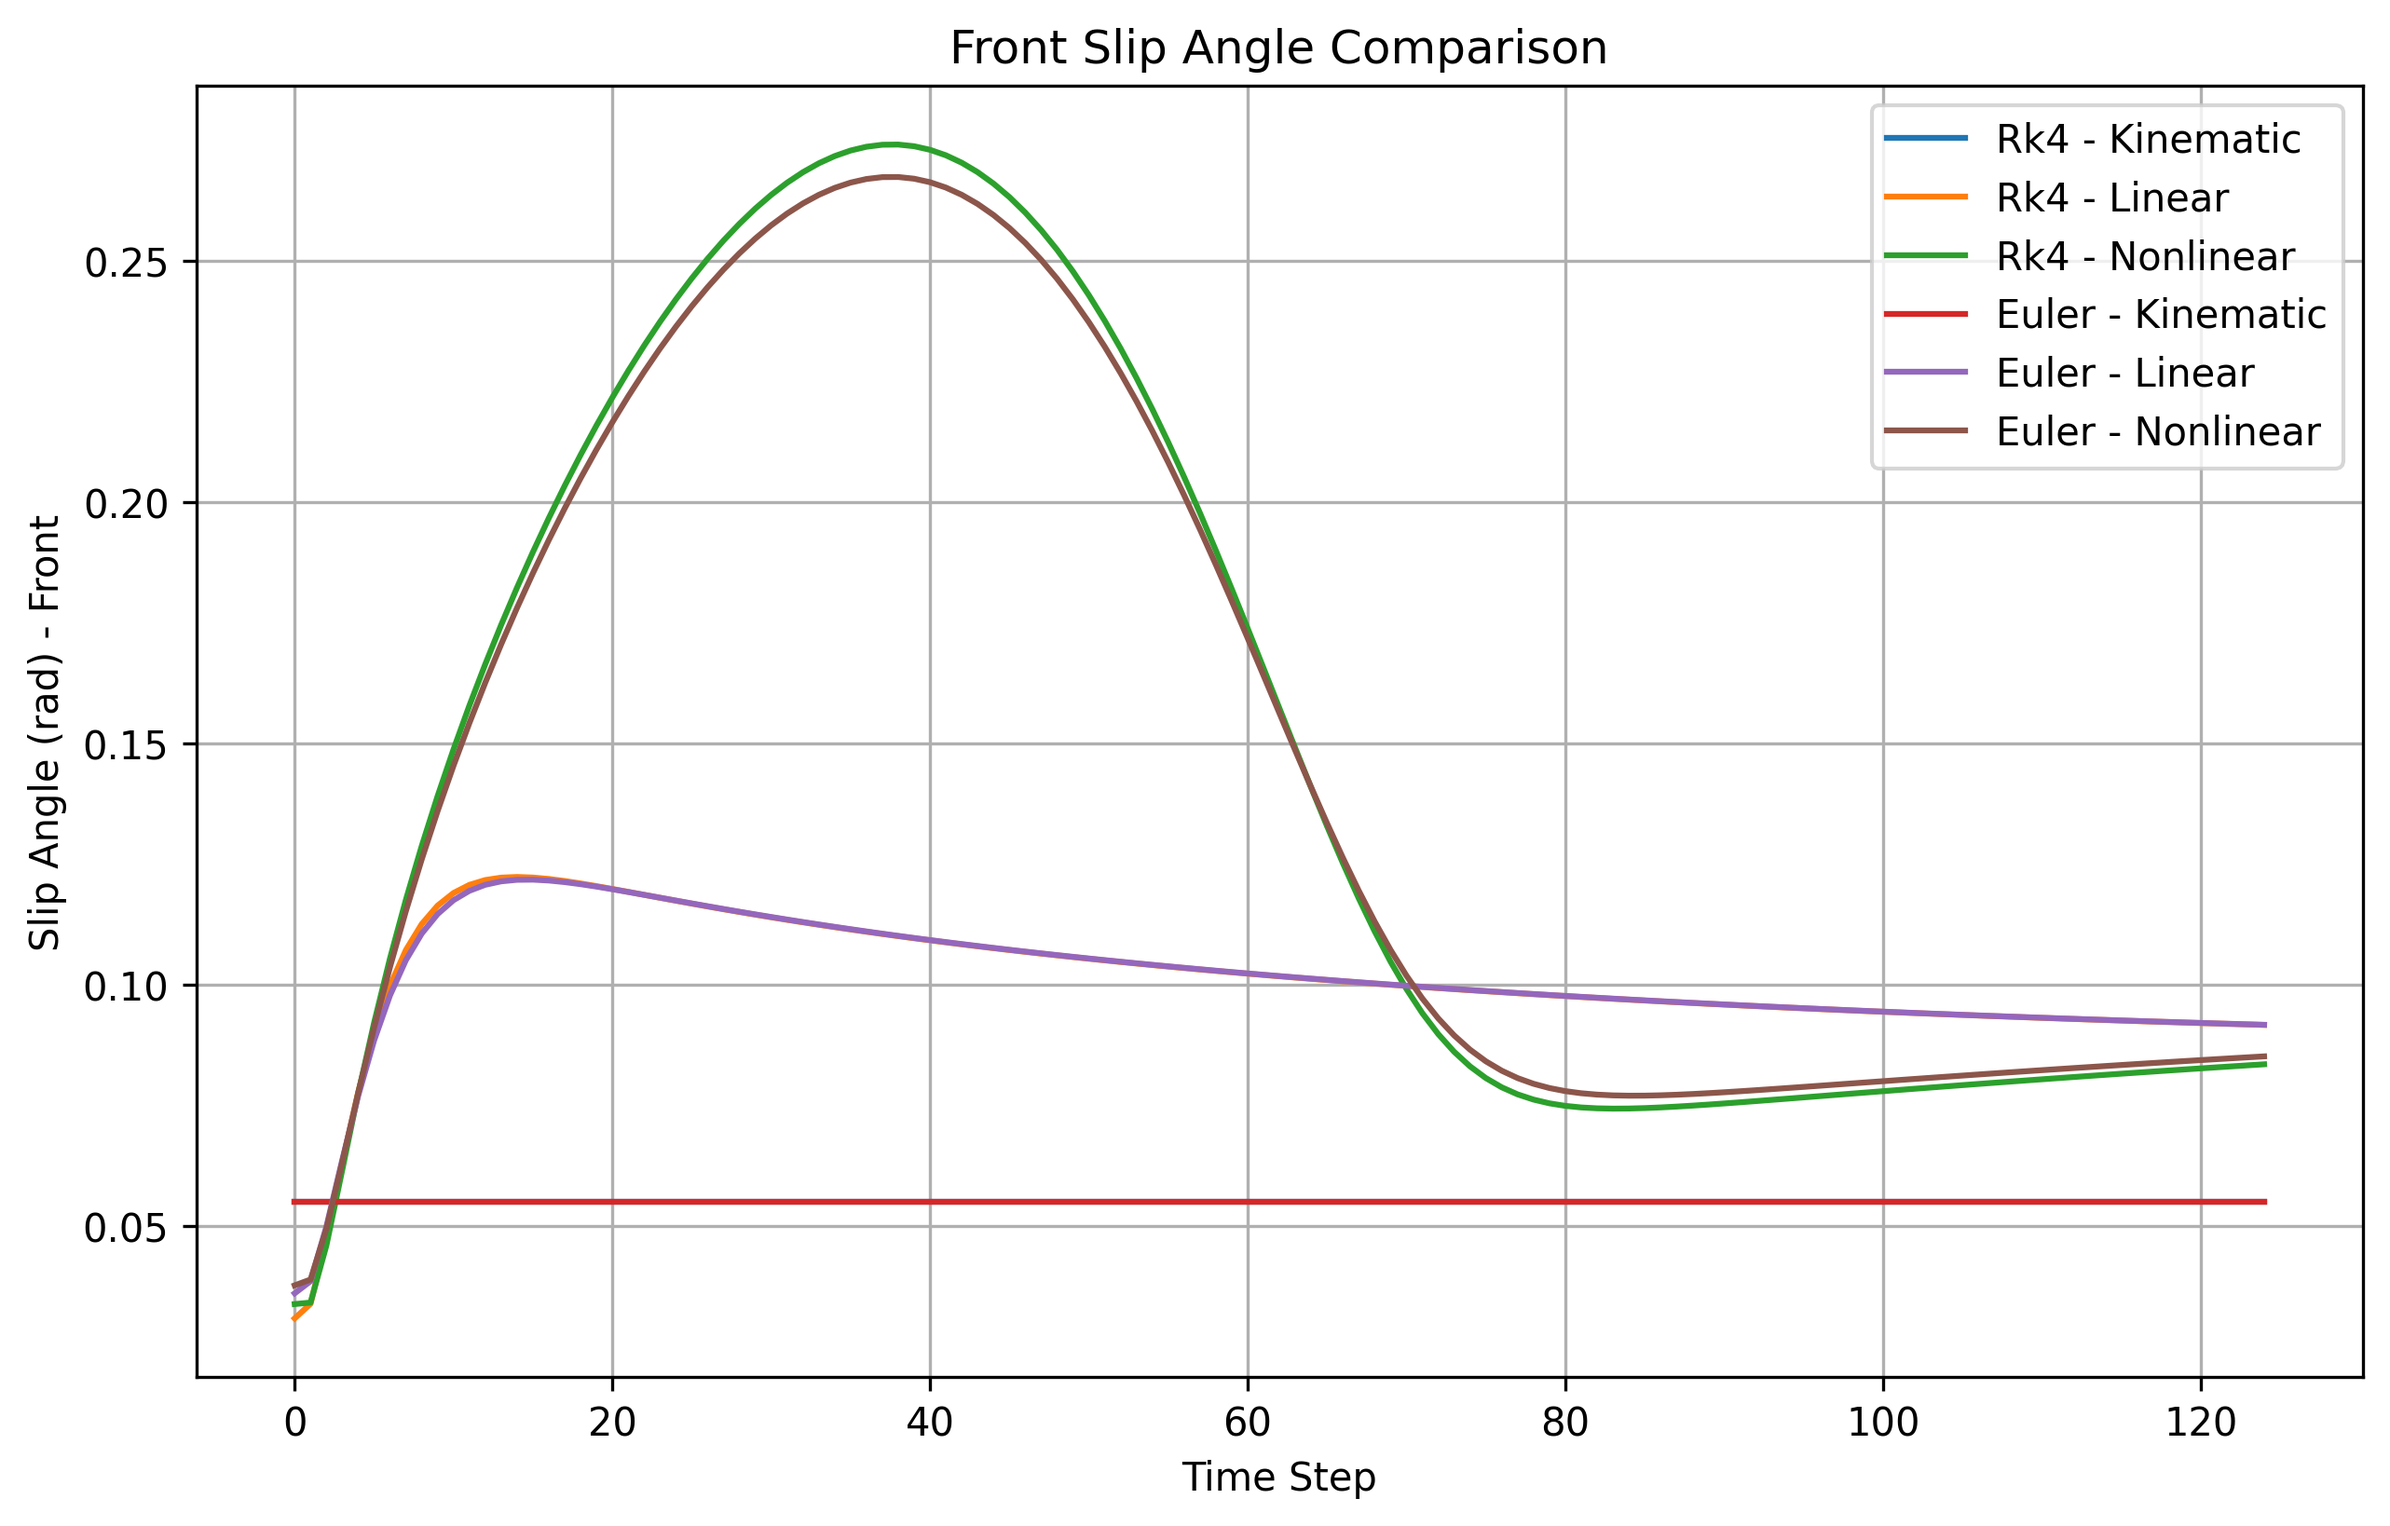
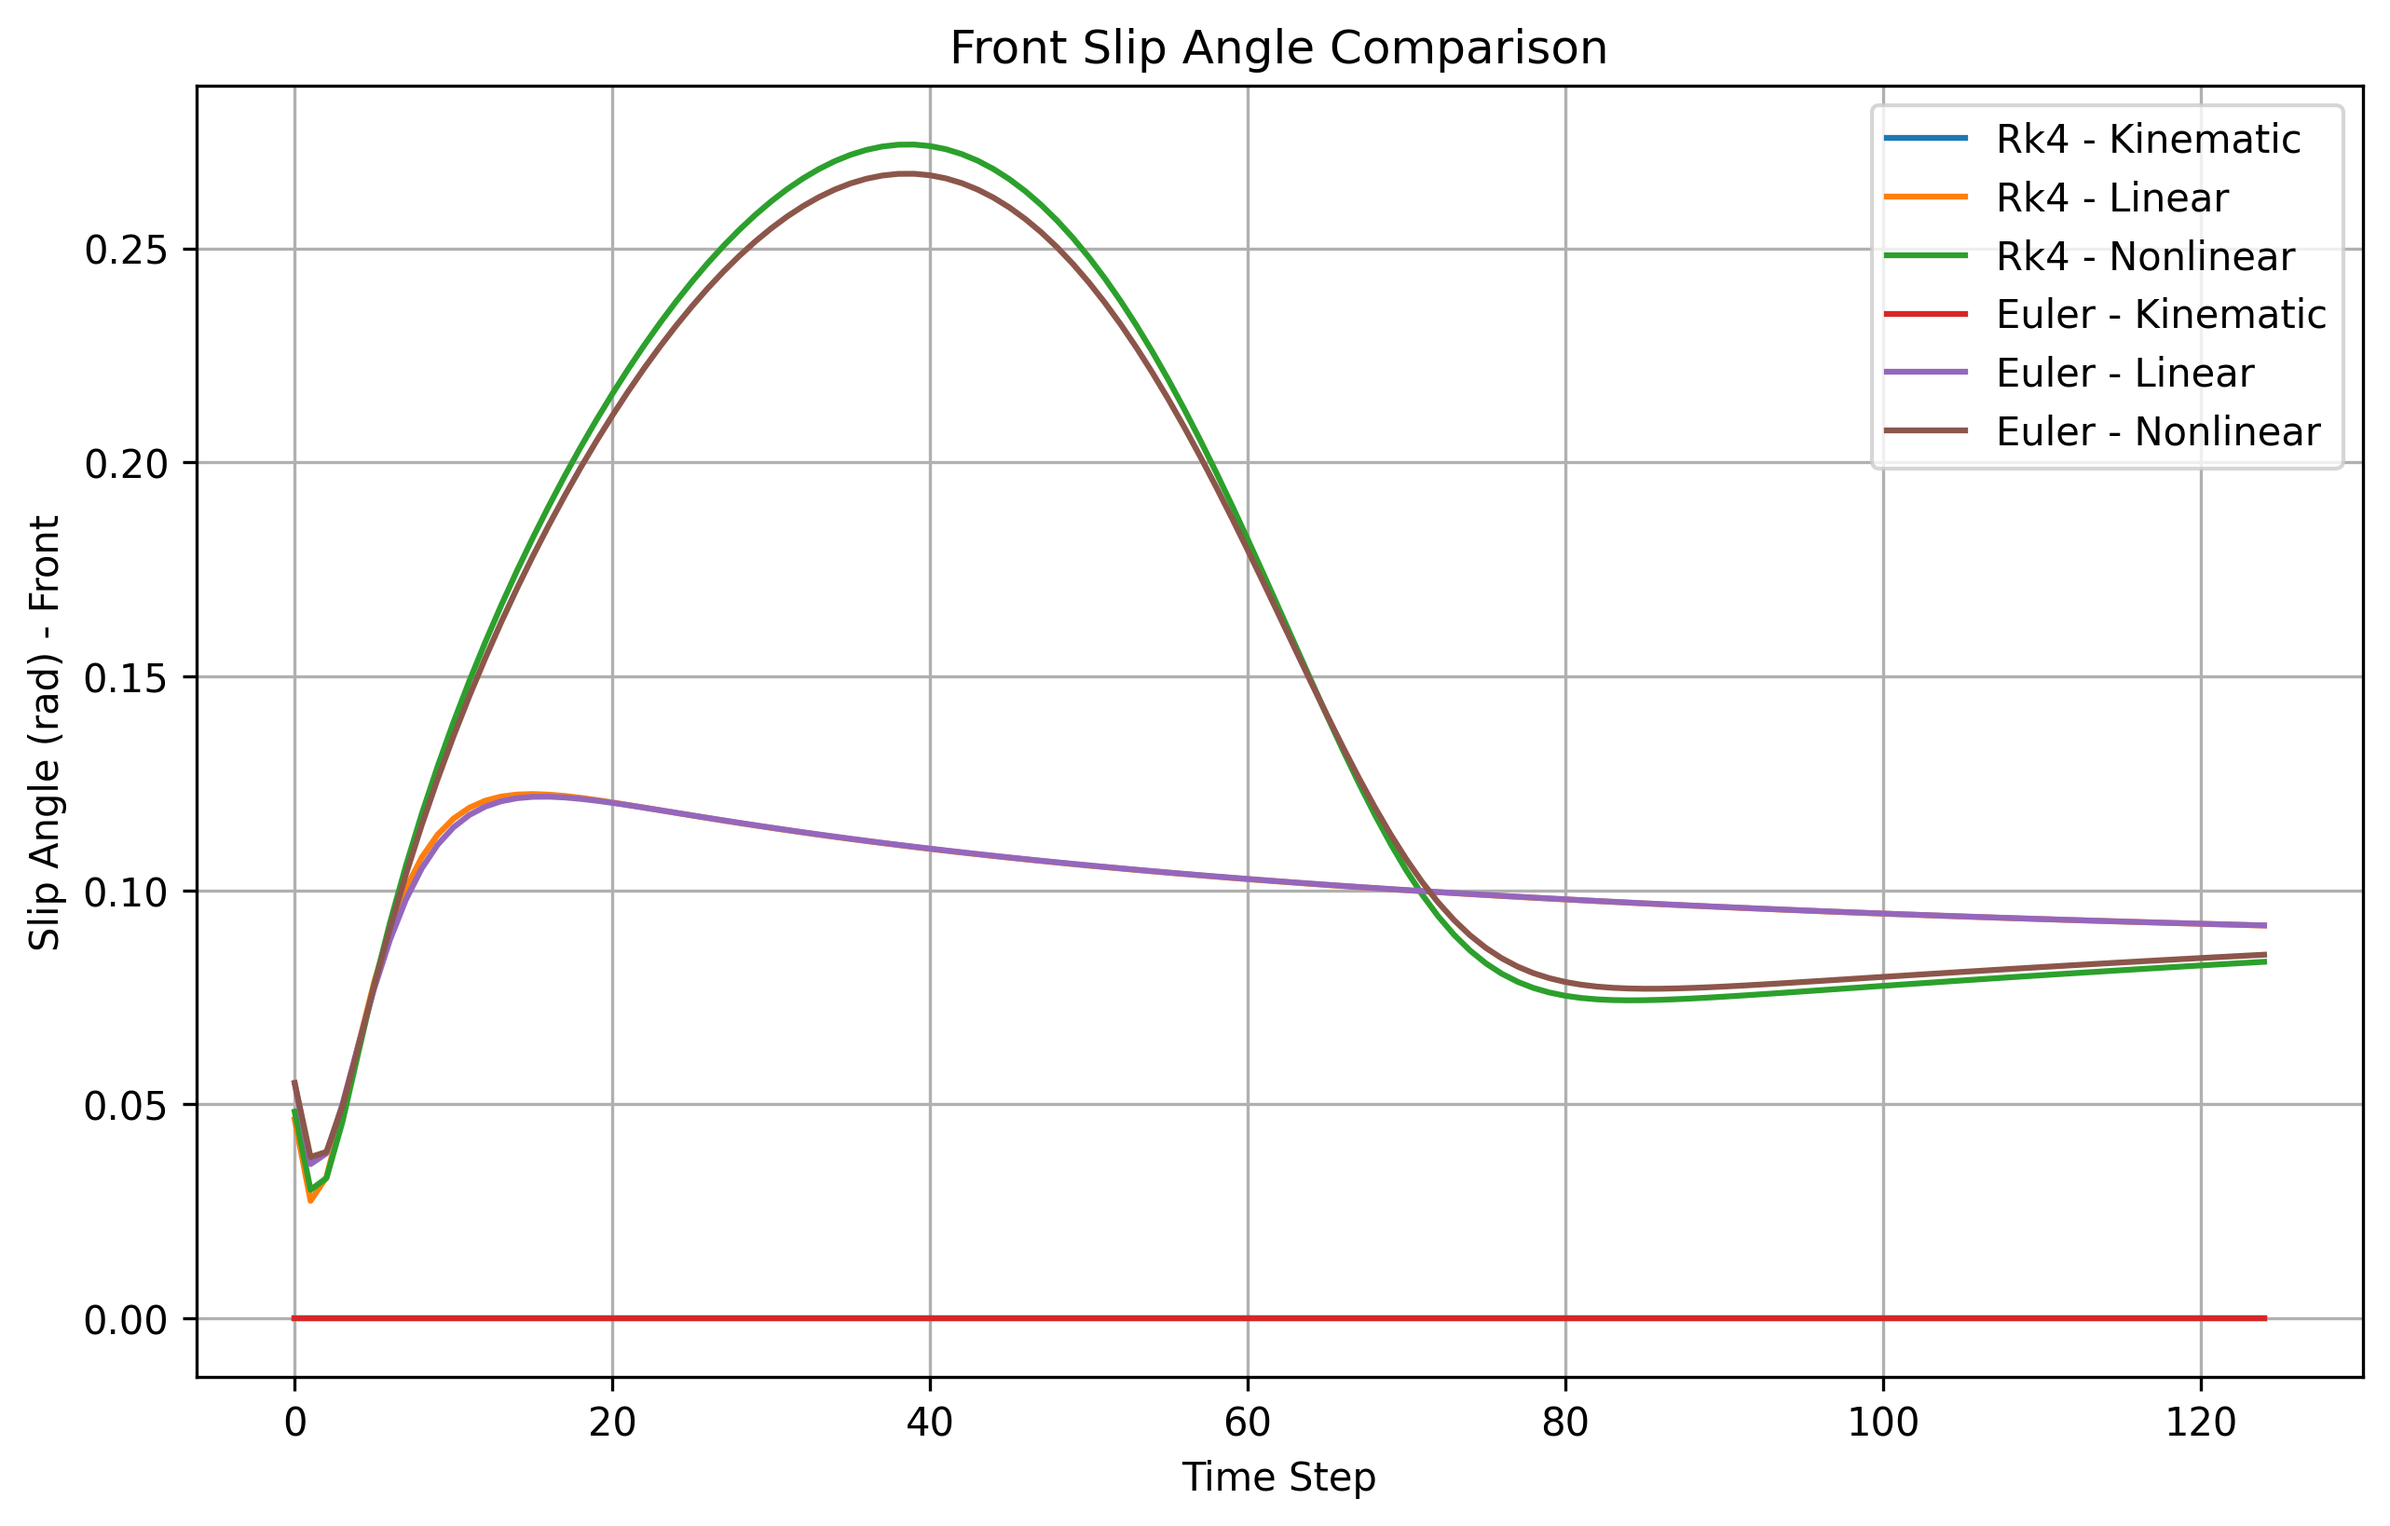
refactored code, generated some images again

diff --git a/assignment_04/main.py b/assignment_04/main.py
@@ -28,29 +28,18 @@ def plot_trajectory(x_vals, y_vals, labels):
     plt.axis("equal")
     plt.savefig("./img/Trajectory.png", dpi=300, bbox_inches='tight')
 
-# Please note: lateral_dynamic is a three-dimensions array: simulation -> data array -> specific unit data 
-def plot_lateral_forces(lateral_dynamic, labels):
+# This function plots the Fy vs alpha graphs
+def plot_lateral_force(Fy, alpha, labels, force_type):
     """ Plot lateral force as a function of slip angle """
     plt.figure(figsize=(10, 6))
-    for i, simulation in enumerate(lateral_dynamic):
-        plt.plot(simulation[1], simulation[0], label=labels[i])
-    plt.title("Front lateral force as function of slip angle")
-    plt.xlabel("Front lateral slip angle (rad)")
-    plt.ylabel("Front lateral force (N)")
+    for i, simulation in enumerate(Fy):
+        plt.plot(alpha[i], Fy[i], label=labels[i])
+    plt.title(force_type + " lateral force as function of slip angle")
+    plt.xlabel(force_type + " lateral slip angle (rad)")
+    plt.ylabel(force_type + " lateral force (N)")
     plt.legend()
     plt.grid(True)
-    plt.savefig("./img/Front Lateral Force vs Slip Angle.png", dpi=300, bbox_inches='tight')
-
-    plt.figure(figsize=(10, 6))
-    for i, simulation in enumerate(lateral_dynamic):
-        plt.plot(simulation[3], simulation[2], label=labels[i])
-    plt.title("Rear lateral force as function of slip angle")
-    plt.xlabel("Rear lateral slip angle (rad)")
-    plt.ylabel("Rear lateral force (N)")
-    plt.legend()
-    plt.grid(True)
-    plt.savefig("./img/Rear Lateral Force vs Slip Angle.png", dpi=300, bbox_inches='tight')
-
+    plt.savefig("./img/" + force_type + " Lateral Force vs Slip Angle.png", dpi=300, bbox_inches='tight')
 
 def run_simulation(ax, steer, dt, integrator, model, steps=500):
     """ Run a simulation with the given parameters and return all states. """
@@ -63,13 +52,21 @@ def run_simulation(ax, steer, dt, integrator, model, steps=500):
     # Initialize the simulation
     sim = Simulation(lf, lr, mass, Iz, dt, integrator=integrator, model=model)
 
-    # Storage for state variables and slip angles
-    x_vals, y_vals, theta_vals, vx_vals, vy_vals, r_vals = [], [], [], [], [], []
-    alpha_f_vals, alpha_r_vals = [], []  # Slip angles
-    steer_vals = [] # Steering angle values
-    beta_vals = [] # Side slip angle values
-    lateral_force_front_vals, lateral_slip_angle_front_vals = [], []
-    lateral_force_rear_vals, lateral_slip_angle_rear_vals = [], []
+    # Storage for state variables and slip angles    
+    results = {
+        "x": [],
+        "y": [],
+        "theta": [],
+        "vx": [],
+        "vy": [],
+        "r": [], # yaw rate
+        "alpha_front": [], # front tires slip angle
+        "alpha_rear": [], # rear tires slip angle
+        "steer": [], # steering angle (delta)
+        "beta": [], # side slip angle
+        "Fy_front": [], # front tires lateral force
+        "Fy_rear": [] # rear tires lateral force
+    }
 
     # Max steer and frequency for sinusoidal steer commands
     steer_max = 0.1
@@ -79,40 +76,29 @@ def run_simulation(ax, steer, dt, integrator, model, steps=500):
 
         # Make one step simulation via model integration
         # Calculate sinusoidal steering angle
-        # time = step * dt
-        # steer = steer_max * np.sin(2 * np.pi * frequency * time)  # Sinusoidal steering angle
-        steer_vals.append(steer)
+        if sim.sinusoidal_steer:
+            time = step * dt
+            steer = steer_max * np.sin(2 * np.pi * frequency * time)  # Sinusoidal steering angle
 
         sim.integrate(ax, steer)
         
         # Append each state to corresponding list
-        x_vals.append(sim.x)
-        y_vals.append(sim.y)
-        theta_vals.append(sim.theta)
-        vx_vals.append(sim.vx)
-        vy_vals.append(sim.vy)
-        r_vals.append(sim.r)
+        results["x"].append(sim.x)
+        results["y"].append(sim.y)
+        results["theta"].append(sim.theta)
+        results["vx"].append(sim.vx)
+        results["vy"].append(sim.vy)
+        results["r"].append(sim.r)
 
-        # Calculate slip angles for front and rear tires 
-        alpha_f = steer - np.arctan((sim.vy + sim.l_f * sim.r) / sim.vx)    # Front tire slip angle
-        alpha_r = - np.arctan((sim.vy - sim.l_r * sim.r) / sim.vx)          # Rear tire slip angle
-        alpha_f_vals.append(alpha_f)
-        alpha_r_vals.append(alpha_r)
+        # Get other simulation values
+        results["alpha_front"].append(sim.alpha_front)
+        results["alpha_rear"].append(sim.alpha_rear)
+        results["steer"].append(steer)
+        results["beta"].append(sim.beta)
+        results["Fy_front"].append(sim.Fy_front)
+        results["Fy_rear"].append(sim.Fy_rear)
 
-        # Calculate side slip angles
-        beta = np.arctan(sim.vy / sim.vx)
-        beta_vals.append(beta)
-
-        # Get lateral force/slip angle values
-        lateral_force_front_vals.append(sim.Fy_front)
-        lateral_slip_angle_front_vals.append(sim.alpha_front)
-        lateral_force_rear_vals.append(sim.Fy_rear)
-        lateral_slip_angle_rear_vals.append(sim.alpha_rear)
-
-    # Here four arrays are packed in one just for readability purpose
-    lateral_dynamic = [lateral_force_front_vals, lateral_slip_angle_front_vals, lateral_force_rear_vals, lateral_slip_angle_rear_vals]
-    
-    return x_vals, y_vals, theta_vals, vx_vals, vy_vals, r_vals, alpha_f_vals, alpha_r_vals, steer_vals, beta_vals, lateral_dynamic
+    return results
 
 def main():
     # Simulation parameters
@@ -144,30 +130,32 @@ def main():
         all_results.append(results)
         labels.append(f"{integrator.capitalize()} - {model.capitalize()}")
 
-    # Separate each state for plotting
-    x_results = [result[0] for result in all_results]
-    y_results = [result[1] for result in all_results]
-    theta_results = [result[2] for result in all_results]
-    vx_results = [result[3] for result in all_results]
-    vy_results = [result[4] for result in all_results]
-    r_results = [result[5] for result in all_results]
-    alpha_f_results = [result[6] for result in all_results]
-    alpha_r_results = [result[7] for result in all_results]
-    steer_results = [result[8] for result in all_results]
-    beta_results = [result[9] for result in all_results]
-    lateral_dynamic = [result[10] for result in all_results]
+    # Separate each value for plotting
+    x_results = [result["x"] for result in all_results]
+    y_results = [result["y"] for result in all_results]
+    theta_results = [result["theta"] for result in all_results]
+    vx_results = [result["vx"] for result in all_results]
+    vy_results = [result["vy"] for result in all_results]
+    r_results = [result["r"] for result in all_results]
+    alpha_front_results = [result["alpha_front"] for result in all_results]
+    alpha_rear_results = [result["alpha_rear"] for result in all_results]
+    steer_results = [result["steer"] for result in all_results]
+    beta_results = [result["beta"] for result in all_results]
+    Fy_front_results = [result["Fy_front"] for result in all_results]
+    Fy_rear_results = [result["Fy_rear"] for result in all_results]
 
-    # Plot comparisons for each state variable
+    # Plot comparisons for each simulation value
     plot_trajectory(x_results, y_results, labels)
     plot_comparison(theta_results, labels, "Heading Angle Comparison", "Time Step", "Heading Angle (rad)")
     plot_comparison(vx_results, labels, "Longitudinal Velocity Comparison", "Time Step", "Velocity (m/s)")
     plot_comparison(vy_results, labels, "Lateral Velocity Comparison", "Time Step", "Lateral Velocity (m/s)")
     plot_comparison(r_results, labels, "Yaw Rate Comparison", "Time Step", "Yaw Rate (rad/s)")
-    plot_comparison(alpha_f_results, labels, "Front Slip Angle Comparison", "Time Step", "Slip Angle (rad) - Front")
-    plot_comparison(alpha_r_results, labels, "Rear Slip Angle Comparison", "Time Step", "Slip Angle (rad) - Rear")
+    plot_comparison(alpha_front_results, labels, "Front Slip Angle Comparison", "Time Step", "Slip Angle (rad) - Front")
+    plot_comparison(alpha_rear_results, labels, "Rear Slip Angle Comparison", "Time Step", "Slip Angle (rad) - Rear")
     plot_comparison(steer_results, labels, "Steering Angle Comparison", "Time Step", "Steering Angle (rad)")
     plot_comparison(beta_results, labels, "Side Slip Angle Comparison", "Time Step", "Side Slip Angle (rad)")
-    plot_lateral_forces(lateral_dynamic, labels)
+    plot_lateral_force(Fy_front_results, alpha_front_results, labels, "Front")
+    plot_lateral_force(Fy_rear_results, alpha_rear_results, labels, "Rear")
 
 if __name__ == "__main__":
     main()

diff --git a/assignment_04/simulation.py b/assignment_04/simulation.py
@@ -11,6 +11,7 @@ class Simulation:
         self.mass = mass                # Vehicle mass (kg)
         self.I_z = Iz                   # Yaw moment of inertia (kg*m^2)
         self.dt = dt                    # Time step (s)
+        self.sinusoidal_steer = False    # Sinusoidal steer (True/False)
         self.integrator = integrator    # Integrator choice
         self.model = model              # Model choice
         
@@ -37,11 +38,12 @@ class Simulation:
         self.cornering_stiffness_front = self.B_front*self.C_front*self.D_front
         self.cornering_stiffness_rear = self.B_rear*self.C_rear*self.D_rear  
 
-        # The following states are keeped for plotting, it is not needed to keep these values throughout the simulation
+        # The following states are kept for plotting, keeping these values is not needed throughout the simulation
         self.alpha_front = 0
         self.alpha_rear = 0
         self.Fy_front = 0
         self.Fy_rear = 0
+        self.beta = 0
 
     def kinematic_model(self, ax, delta):
         """ Kinematic single-track model equations of motion. """
@@ -50,6 +52,9 @@ class Simulation:
         F_aero = 0.5 * self.rho * self.C_d * self.A * (self.vx**2)
         F_roll = self.C_rr * self.mass * 9.81
         Fx = ax * self.mass - (F_aero + F_roll)
+
+        # Side slip angle
+        self.beta = np.arctan(self.vy / self.vx)
         
         # The array is in the format [dx, dy, dtheta, dvx, dvy, dr]
         dx = np.array([
@@ -75,6 +80,9 @@ class Simulation:
         F_n = self.mass * 9.81
         Fz_front_nominal = (self.l_r / self.l_wb) * F_n
         Fz_rear_nominal = (self.l_f / self.l_wb) * F_n
+
+        # Side slip angle
+        self.beta = np.arctan(self.vy / self.vx)
 
         # Front and rear lateral forces computed based on the tire slip angles
         # This is the linear part (valid just for small slip angles)
@@ -108,6 +116,9 @@ class Simulation:
         F_n = self.mass * 9.81
         Fz_front_nominal = (self.l_r / self.l_wb) * F_n
         Fz_rear_nominal = (self.l_f / self.l_wb) * F_n
+
+        # Side slip angle
+        self.beta = np.arctan(self.vy / self.vx)
 
         # Front and rear lateral forces computed based on the tire slip angles
         # This is the non-linear part, used to represent lateral forces beyond the "small slip angle" region
